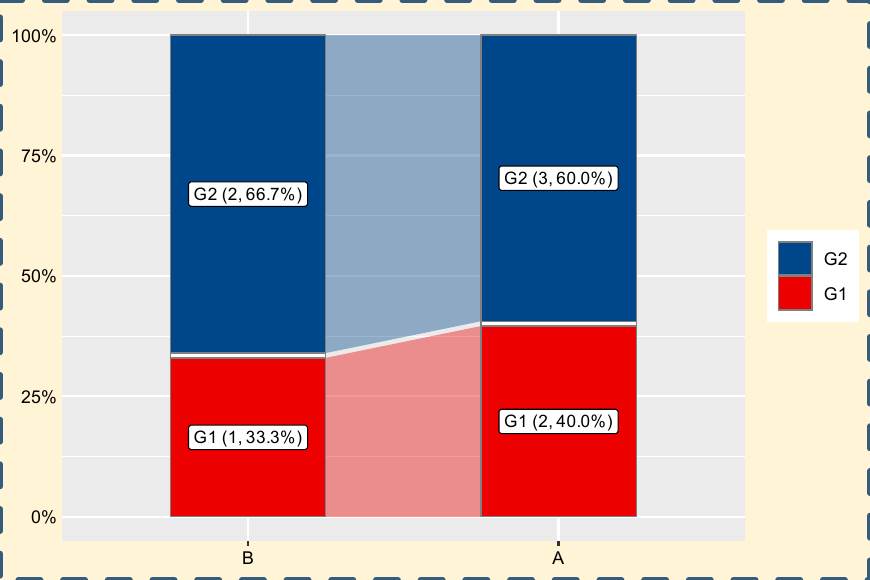
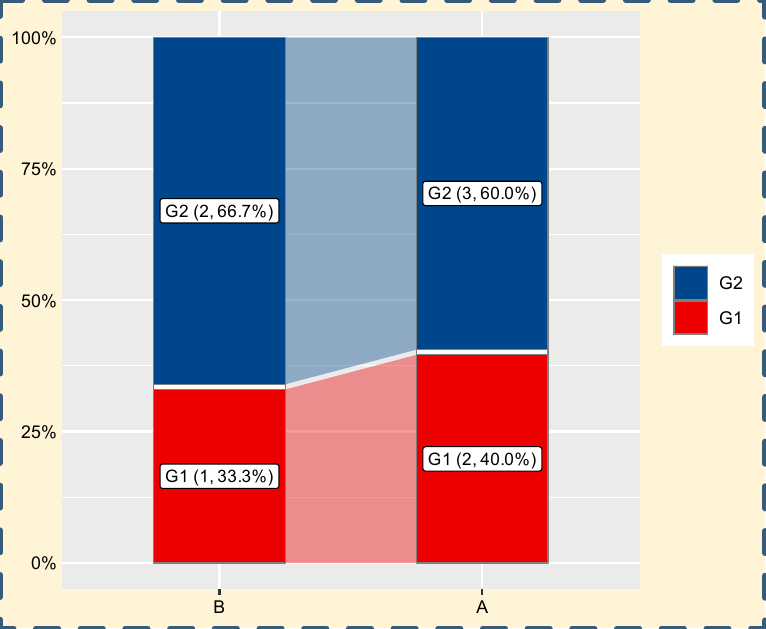
Save the legacy alluvial example at its reported natural size

diff --git a/docs/utilsr/format-guide.html b/docs/utilsr/format-guide.html
@@ -1651,8 +1651,9 @@ pre > code.sourceCode > span > a:first-child::before { text-decoration: underlin
 <span id="cb18-12"><a href="#cb18-12" aria-hidden="true" tabindex="-1"></a>flows <span class="ot">&lt;-</span> <span class="fu">data.frame</span>(<span class="at">category =</span> <span class="fu">c</span>(<span class="st">"B"</span>, <span class="st">"B"</span>, <span class="st">"A"</span>, <span class="st">"A"</span>, <span class="st">"B"</span>, <span class="st">"A"</span>, <span class="st">"A"</span>, <span class="st">"A"</span>),</span>
 <span id="cb18-13"><a href="#cb18-13" aria-hidden="true" tabindex="-1"></a>  <span class="at">group =</span> <span class="fu">c</span>(<span class="st">"G2"</span>, <span class="st">"G2"</span>, <span class="st">"G1"</span>, <span class="st">"G2"</span>, <span class="st">"G1"</span>, <span class="st">"G2"</span>, <span class="st">"G2"</span>, <span class="st">"G1"</span>))</span>
 <span id="cb18-14"><a href="#cb18-14" aria-hidden="true" tabindex="-1"></a>alluvial <span class="ot">&lt;-</span> <span class="fu">plt_alluvial</span>(flows, <span class="at">cat_var =</span> <span class="st">"category"</span>, <span class="at">group =</span> <span class="st">"group"</span>, <span class="at">theme_use =</span> legacy)</span>
-<span id="cb18-15"><a href="#cb18-15" aria-hidden="true" tabindex="-1"></a>ggplot2<span class="sc">::</span><span class="fu">ggsave</span>(<span class="fu">file.path</span>(<span class="fu">tempdir</span>(), <span class="st">"20261106c-update-legacy-alluvial.pdf"</span>), alluvial,</span>
-<span id="cb18-16"><a href="#cb18-16" aria-hidden="true" tabindex="-1"></a>  <span class="at">width =</span> <span class="dv">6</span>, <span class="at">height =</span> <span class="dv">4</span>, <span class="at">device =</span> grDevices<span class="sc">::</span>cairo_pdf)</span></code></pre></div><button title="复制到剪贴板" class="code-copy-button"><i class="bi"></i></button></div>
+<span id="cb18-15"><a href="#cb18-15" aria-hidden="true" tabindex="-1"></a>alluvial_size <span class="ot">&lt;-</span> <span class="fu">attr</span>(alluvial, <span class="st">"plot_size"</span>)</span>
+<span id="cb18-16"><a href="#cb18-16" aria-hidden="true" tabindex="-1"></a>ggplot2<span class="sc">::</span><span class="fu">ggsave</span>(<span class="fu">file.path</span>(<span class="fu">tempdir</span>(), <span class="st">"20261106c-update-legacy-alluvial.pdf"</span>), alluvial,</span>
+<span id="cb18-17"><a href="#cb18-17" aria-hidden="true" tabindex="-1"></a>  <span class="at">width =</span> alluvial_size[[<span class="dv">1</span>]], <span class="at">height =</span> alluvial_size[[<span class="dv">2</span>]], <span class="at">device =</span> grDevices<span class="sc">::</span>cairo_pdf)</span></code></pre></div><button title="复制到剪贴板" class="code-copy-button"><i class="bi"></i></button></div>
 <div class="quarto-figure quarto-figure-center">
 <figure class="figure">
 <p><a href="images/format-guide/20261106c-update-legacy-theme.png" class="lightbox" data-gallery="quarto-lightbox-gallery-14" title="解析旧主题后，点图实际绘出浅金底色与蓝色虚线边框"><img src="images/format-guide/20261106c-update-legacy-theme.png" class="img-fluid figure-img" alt="解析旧主题后，点图实际绘出浅金底色与蓝色虚线边框" loading="lazy" decoding="async" width="870" height="580" srcset="../assets/figure-previews/30743e0dc51b7c8288e5256306a525fd.webp"></a></p>
@@ -1662,7 +1663,7 @@ pre > code.sourceCode > span > a:first-child::before { text-decoration: underlin
 <p><a href="images/format-guide/20261106c-update-legacy-theme.pdf">原生 PDF</a></p>
 <div class="quarto-figure quarto-figure-center">
 <figure class="figure">
-<p><a href="images/format-guide/20261106c-update-legacy-alluvial.png" class="lightbox" data-gallery="quarto-lightbox-gallery-15" title="8 行合成流向输入通过公开 theme_use 调用保留相同背景样式"><img src="images/format-guide/20261106c-update-legacy-alluvial.png" class="img-fluid figure-img" alt="8 行合成流向输入通过公开 theme_use 调用保留相同背景样式" loading="lazy" decoding="async" width="870" height="580" srcset="../assets/figure-previews/4363304a8a4eee2c0d37c03fdd726c09.webp"></a></p>
+<p><a href="images/format-guide/20261106c-update-legacy-alluvial.png" class="lightbox" data-gallery="quarto-lightbox-gallery-15" title="8 行合成流向输入通过公开 theme_use 调用保留相同背景样式"><img src="images/format-guide/20261106c-update-legacy-alluvial.png" class="img-fluid figure-img" alt="8 行合成流向输入通过公开 theme_use 调用保留相同背景样式" loading="lazy" decoding="async" width="766" height="629" srcset="../assets/figure-previews/8dc3e9336ddb2020005cc63187901287.webp"></a></p>
 <figcaption>8 行合成流向输入通过公开 theme_use 调用保留相同背景样式</figcaption>
 </figure>
 </div>
